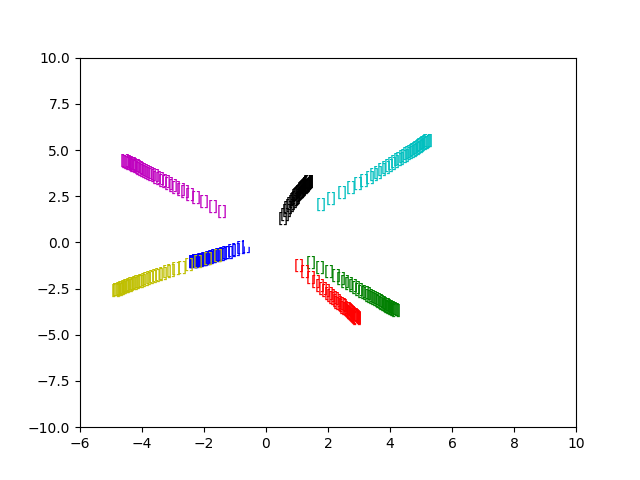
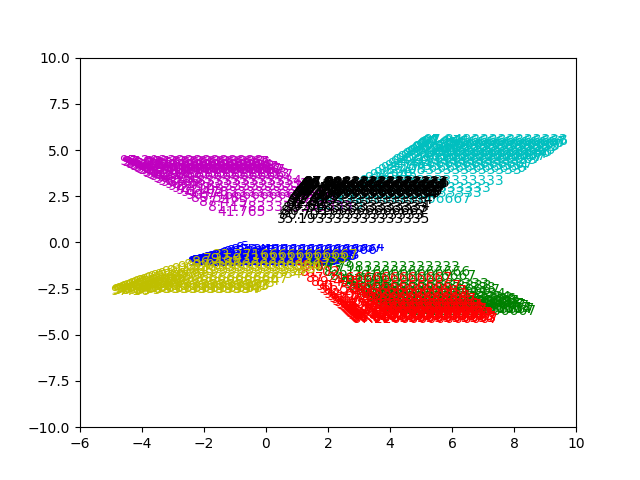
dkfj

Changed region(s): [[0.1875, 0.2812, 0.9062, 0.4688], [0.1562, 0.5, 0.8438, 0.6875]]

diff --git a/hw1/1-2/1-2-1/plot.py b/hw1/1-2/1-2-1/plot.py
@@ -18,13 +18,12 @@ para_total=[]
 for i in range(len(args.input)):
     dm.load_np('para{}'.format(i),args.input[i])
     para_total.extend(list(dm.data['para{}'.format(i)][:,1:]))
-print(np.array(para_total).shape)
 
 dm.pca_construct(para_total,2)
 for i in range(len(args.input)):
     data=dm.pca_transform(dm.data['para{}'.format(i)][:,1:])
     for j in range(len(data)):
-        text=dm.data['para'+str(i)][j:0]
+        text=dm.data['para'+str(i)][j,0]
         plt.text(data[j][0], data[j][1], text,fontdict={'size': 10, 'color': color[i]}) 
 
 plt.xlim(-6, 10)
